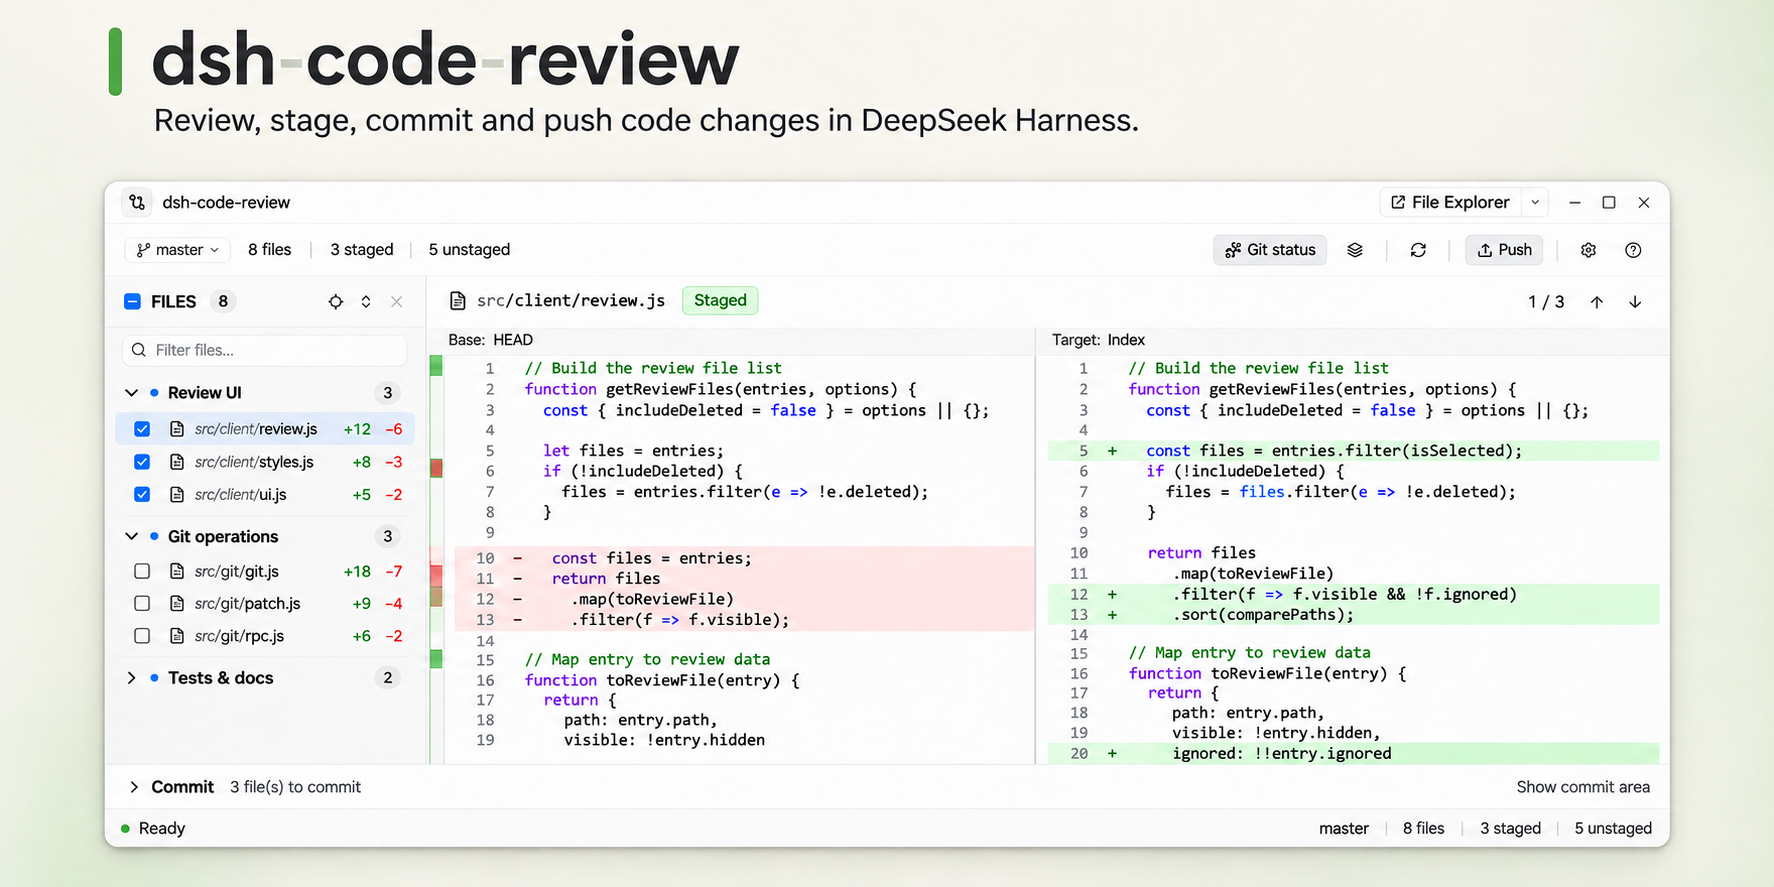
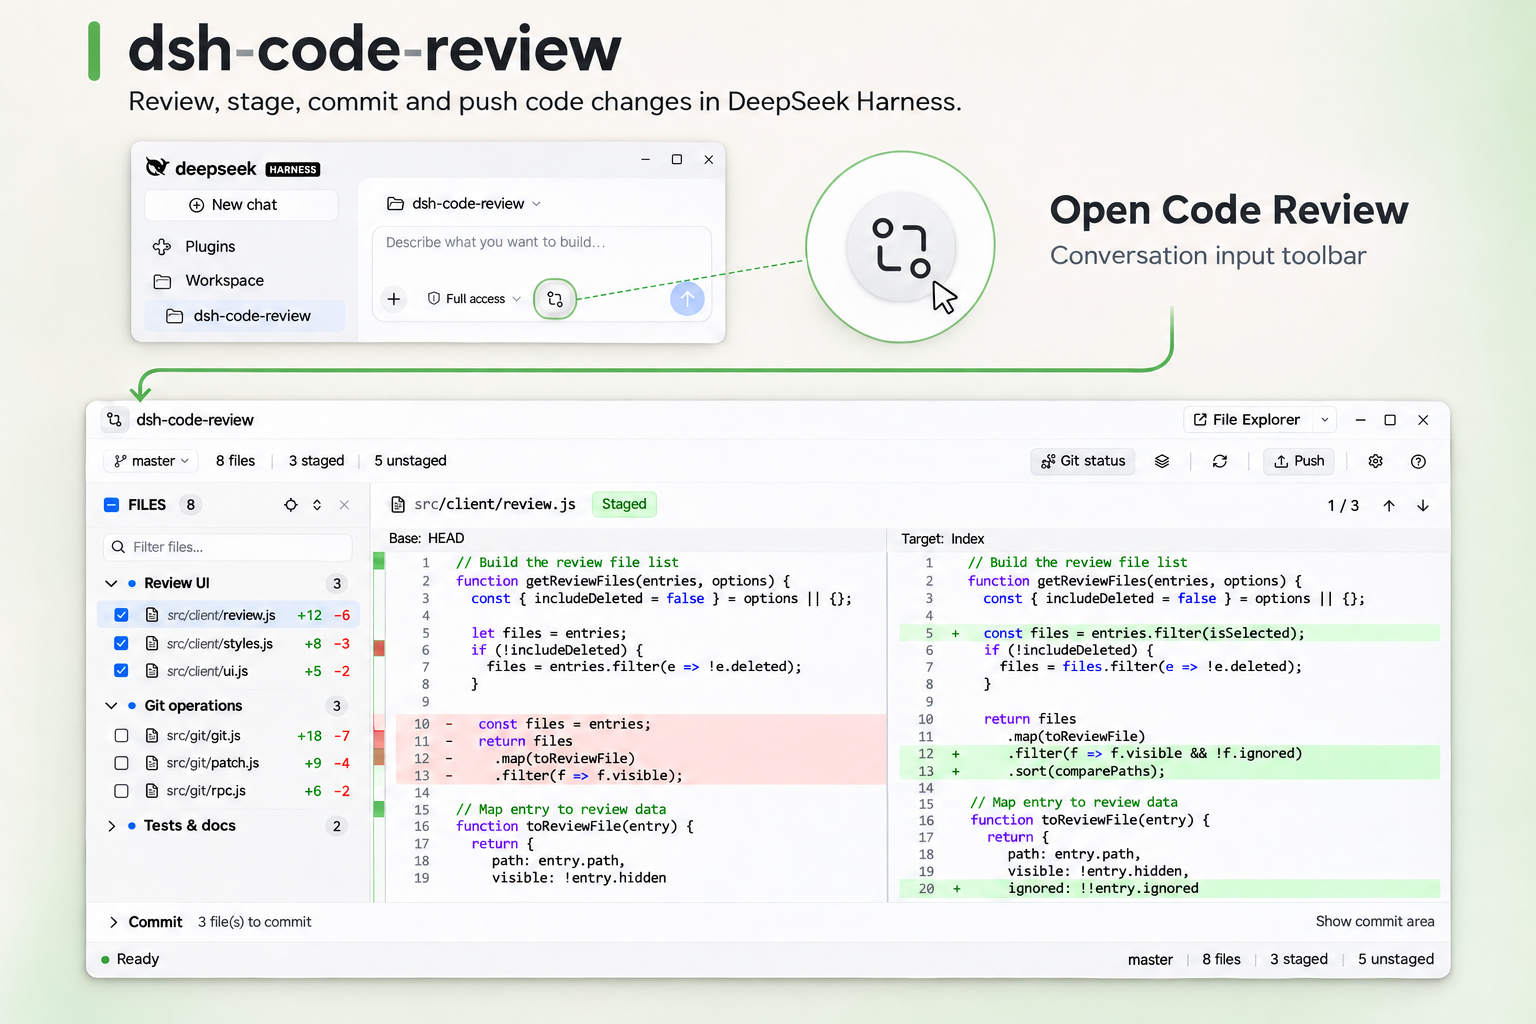
docs: refresh README covers and installation guide
- README/README.en: make the DSH Desktop Plugins page the primary install path
  (Add plugin, Install, Enable now) for the published npm package, keeping
  clone-the-repo or Release source archive plus a local directory path as the
  fallback; upgrades stay uninstall-then-install.
- README/README.en: new cover illustrations that point at the Code Review entry
  in the conversation input toolbar; update the matching feature bullet and
  usage step, and add multiple-workspaces-and-minimizing sections covering
  independent per-workspace windows, minimize-to-title-strip and restore, and
  the per-page window lifetime.
- docs/development: describe the cover as a composed illustration and how to
  keep it in sync with the real ReviewButton icon.
- assets: replace cover.zh.png and cover.en.png.
- CHANGELOG: record the installation, cover and multi-window README updates.

diff --git a/README.en.md b/README.en.md
@@ -18,7 +18,7 @@
 </p>
 
 <p align="center">
-  <img src="assets/cover.en.png" alt="dsh-code-review interface preview: review changes side by side, check files to stage, and commit inside the DSH Web UI" width="100%">
+  <img src="assets/cover.en.png" alt="dsh-code-review entry and interface illustration: open Code Review from the DSH conversation input toolbar to review changes side by side, stage files, and commit in a floating window" width="100%">
 </p>
 
 ## Features
@@ -26,26 +26,34 @@
 - **Side-by-side review**: inspect diffs, syntax highlighting and change statistics, with quick navigation between changes.
 - **Choose what to commit**: stage and unstage files or groups, with individual hunk operations and discard for unstaged changes.
 - **Commit and push**: write commit messages or let AI draft one, preview pushes and configure remotes.
-- **Flexible windows**: move, resize and review multiple sessions without blocking the conversation; supports DSH light/dark themes and Chinese/English.
+- **Flexible windows**: review multiple workspaces or sessions independently, with movable, resizable and minimizable windows that keep the conversation accessible; supports DSH light/dark themes and Chinese/English.
 - **Optional AI grouping**: organise changes by file role or feature logic for review and staging.
 
 ## Installation
 
-Requires the DSH Web UI, Git and Node.js ≥ 20.11 on the host machine. The plugin has been tested with DSH 0.2.2-rc.1.
+The plugin is published on npm as [`@acanzaima/dsh-code-review`](https://www.npmjs.com/package/@acanzaima/dsh-code-review) and installs through the DSH Plugins page. It needs a working Git and Node.js ≥ 20.11 (DSH Desktop bundles a suitable runtime); tested with DSH 0.2.2-rc.1.
 
-To try the development version:
+### Install through DSH Desktop (recommended)
 
-1. On this repository's page, click **Code → Download ZIP** and extract the archive.
-2. In DSH's plugin manager, use the extracted project directory as the installation target (the folder containing `package.json`).
-3. Refresh the DSH page after installation. An “Open Code Review” button will appear in the conversation input toolbar.
+1. Open DSH Desktop and choose **Plugins** in the sidebar.
+2. Click **Add plugin**, enter `@acanzaima/dsh-code-review` as the package name and click **Install**.
+3. Click **Enable now** when the installation finishes; if you closed the dialog, switch the plugin on under **Installed plugins** instead.
+4. Go back to the conversation: the “Open Code Review” button appears in the input toolbar. If it does not, restart DSH once.
 
-You can also install it from npm: use `@acanzaima/dsh-code-review` as the installation target in DSH's plugin manager (released versions start at 0.2.0).
+### Install from source
 
-The source includes the client files, so no dependency installation or build is needed. To upgrade, remove the old version, install the new one and refresh the page; restart DSH if the update has not taken effect. Disable or uninstall the plugin through the plugin manager.
+For following the latest changes or debugging. The source already ships the built client file, so there is nothing to install or build.
+
+- Clone the repository: `git clone https://github.com/acanzaima/dsh-code-review.git`.
+- Or download **Source code (zip)** for the wanted version from the [Releases page](https://github.com/acanzaima/dsh-code-review/releases) and extract it.
+
+Then click **Add plugin** on the Plugins page, enter the absolute path of the cloned or extracted directory (the one containing `package.json`), click **Install**, and enable it as described above.
+
+Upgrades, disabling and uninstalling also happen on the Plugins page; to upgrade, uninstall the old version first and then install the new one.
 
 ## Usage
 
-1. In a DSH conversation for your Git project, click “Open Code Review”.
+1. In a DSH conversation for your Git project, click the Code Review icon in the toolbar below the input field (tooltip: “Open Code Review”; see the cover above for its location).
 2. Select a file on the left to inspect its diff. Search for files or jump between changes.
 3. Check a file or group to stage it. Uncheck it to unstage while keeping the file contents. The select-all checkbox applies to the current filter results.
 4. Expand the commit area at the bottom, write a message and commit. Click “Push” when you want to sync with the remote. The sparkles icon to the left of the commit button **drafts a commit message from the staged changes**; the draft lands in the editable message field — review or edit it, then commit.
@@ -53,6 +61,13 @@ The source includes the client files, so no dependency installation or build is 
 Right-click a file or a change block in the diff to stage, unstage or discard it. **Discard removes unstaged changes, requires confirmation and cannot be undone.**
 
 Press `?` inside the window for keyboard shortcuts. `Esc` closes menus and dialogs; use the title-bar close button to close the review window.
+
+### Multiple workspaces and minimizing
+
+- **Independent reviews**: open Code Review from different workspaces or sessions to keep several review windows open at once. Each window stays with the repository it opened for, with its own file selection and diff view. Switching workspaces or sessions leaves existing windows open and keeps their repositories unchanged.
+- **Minimize and restore**: click “Minimize” in the title bar to collapse a window to a title strip showing its repository name, keeping several projects accessible while you continue chatting. Click the upward arrow on the right of the strip to restore the window.
+
+Each window has its own review UI state; plugin settings and the Git state of the same repository remain shared. Windows exist only on the current page: refreshing DSH closes all review windows.
 
 ## AI features
 

diff --git a/README.md b/README.md
@@ -18,7 +18,7 @@
 </p>
 
 <p align="center">
-  <img src="assets/cover.zh.png" alt="dsh-code-review 界面预览：在 DSH 中并排审阅改动、勾选暂存并提交" width="100%">
+  <img src="assets/cover.zh.png" alt="dsh-code-review 入口与界面示意：从 DSH 对话输入框工具行打开 Code Review，在浮动窗口中并排审阅改动、勾选暂存并提交" width="100%">
 </p>
 
 ## 功能
@@ -26,26 +26,34 @@
 - **并排审阅**：查看文件差异、语法高亮和增删统计，快速跳转变更位置。
 - **选择提交内容**：按文件或分组暂存、取消暂存，也支持单个变更块操作与未暂存改动的还原。
 - **提交与推送**：填写或让 AI 草拟提交信息，预览并推送到远程仓库，也可配置远程地址。
-- **灵活的窗口**：支持拖动、缩放和多个会话同时审阅，不阻塞对话；适配 DSH 浅色 / 深色主题，提供中英双语。
+- **灵活的窗口**：支持多工作区 / 多会话独立审阅，窗口可拖动、缩放和最小化，不阻塞对话；适配 DSH 浅色 / 深色主题，提供中英双语。
 - **可选 AI 归类**：按文件职能或功能逻辑组织改动，方便分组审阅与提交。
 
 ## 安装
 
-需要 DSH Web UI、本机可用的 Git 和 Node.js ≥ 20.11；本插件已在 DSH 0.2.2-rc.1 上验证。
+插件发布在 npm（[`@acanzaima/dsh-code-review`](https://www.npmjs.com/package/@acanzaima/dsh-code-review)），在 DSH 的「插件」页中安装。运行需要本机可用的 Git 和 Node.js ≥ 20.11（DSH 桌面端已内置满足要求的运行时）；已在 DSH 0.2.2-rc.1 上验证。
 
-开发版可通过下载源码体验：
+### 通过 DSH 桌面端安装（推荐）
 
-1. 在本仓库页面点击 **Code → Download ZIP**，下载并解压。
-2. 在 DSH 插件管理器中，将解压后的项目目录作为安装目标（包含 `package.json` 的那一层）。
-3. 安装完成后刷新 DSH 页面，即可在对话输入框工具行看到「打开 Code Review」。
+1. 打开 DSH 桌面端，在侧栏选择**插件**。
+2. 点击**添加插件**，在「包名或地址」中填入 `@acanzaima/dsh-code-review`，点击**安装**。
+3. 安装完成后点击**立即启用**；如果当时关掉了对话框，也可以在**已安装插件**中打开该插件的开关。
+4. 回到对话，输入框工具行出现「打开 Code Review」即安装成功。若没有出现，重启一次 DSH。
 
-也可以直接从 npm 安装：在 DSH 插件管理器中以 `@acanzaima/dsh-code-review` 为安装目标（发布版本 0.2.0 起）。
+### 从源码安装
 
-源码已包含客户端文件，无需安装依赖或自行构建。升级时先移除旧版，再安装新版并刷新页面；若未生效，重启 DSH。停用与卸载也在插件管理器中完成。
+适合跟进最新改动或排查问题。源码已包含构建好的客户端文件，不需要安装依赖，也不需要自行构建。
+
+- 克隆仓库：`git clone https://github.com/acanzaima/dsh-code-review.git`。
+- 从 [Releases 页面](https://github.com/acanzaima/dsh-code-review/releases) 下载对应版本的 **Source code (zip)** 并解压。
+
+然后在插件页点击**添加插件**，填入克隆目录或解压目录的完整绝对路径（包含 `package.json` 的那一层），点击**安装**，再按上面的步骤启用。
+
+升级、停用与卸载都在插件页完成；升级时先卸载旧版，再安装新版。
 
 ## 使用
 
-1. 在 Git 项目对应的 DSH 对话中，点击「打开 Code Review」。
+1. 在 Git 项目对应的 DSH 对话中，点击输入框下方工具行里的 Code Review 图标（悬停提示「打开 Code Review」，位置见上方封面）。
 2. 选择左侧文件查看差异，可搜索文件或跳转到上一处 / 下一处变更。
 3. 勾选文件或分组，将改动加入暂存区；取消勾选会移出暂存区，保留文件内容。列表顶部的全选只作用于当前筛选结果。
 4. 展开底部提交区，填写提交信息并提交；需要同步到远程时，再点击「推送」。提交按钮左侧的 sparkles 图标可按已暂存改动**用 AI 草拟提交信息**，草稿会写进输入框，确认或修改后照常提交。
@@ -53,6 +61,13 @@
 右键文件或 diff 中的变更块，可执行暂存、取消暂存或还原。**还原会丢弃未暂存的改动，执行前需要确认，且无法撤销。**
 
 窗口内按 `?` 查看快捷键。`Esc` 关闭菜单或对话框，审阅窗口通过标题栏的关闭按钮关闭。
+
+### 多工作区与最小化
+
+- **独立审阅**：在不同工作区或会话中分别打开 Code Review，可同时保留多个审阅窗口。每个窗口始终对应打开时的仓库，文件选择与差异查看互不影响；切换工作区或会话不会关闭已有窗口，也不会把它切换到另一个仓库。
+- **收起与恢复**：点击标题栏的「最小化」，窗口收起为一条带仓库名的标题条，方便同时保留多个项目并继续对话。点击标题条右侧的向上箭头即可恢复原窗口。
+
+各窗口的审阅界面状态独立；插件设置及同一仓库的 Git 状态仍共享。窗口只保留在当前页面中，刷新 DSH 页面会关闭所有审阅窗口。
 
 ## AI 能力
 

diff --git a/docs/development.md b/docs/development.md
@@ -181,6 +181,8 @@ npm run release -- --dry-run
 
 README / README.en 顶部的简介图位于仓库根目录 `assets/`（`cover.zh.png` / `cover.en.png`），与 `docs/` 分开：`docs/` 只放维护者 / 集成者文档，README 素材放 `assets/`；两者都不随包发布。npm 页面渲染 README 时不会解析相对图片路径，这些图片在 npm 页面上不可见；需要显示时应改用绝对 URL。
 
+封面是导览合成示意图：上方用简化的 DSH 输入框交代入口位置，局部放大 Code Review 按钮，再用箭头指向下方的主审阅窗口。它不是逐像素的真实截图；更新时应核对 `src/client/components.js` 中 `ReviewButton` / `ICON_PARTS.review` 的实际按钮与图标，并同步中英文版本。
+
 ### 11.1 由 tag 触发的自动发布（GitHub Actions + Trusted Publishing）
 
 `.github/workflows/publish.yml` 在推送 `v*` tag 时自动发布，本地 `git push origin v0.2.1` 与 GitHub 页面创建 tag（Tags → New tag，或用 Release 页面新建同名 tag）都会产生 tag push 事件，触发同一个 workflow。发布通过 npm Trusted Publishing（OIDC）完成：workflow 申请 GitHub OIDC token，npm 校验「仓库 + workflow 文件名 + environment」后签发短期发布凭据，因此仓库里不需要 `NPM_TOKEN` 等长期 token（2027-01 起 bypass-2FA token 也不能再直接发布）。流程：

diff --git a/CHANGELOG.md b/CHANGELOG.md
@@ -3,6 +3,14 @@
 本项目的所有重要变更都记录在此文件。格式基于 [Keep a Changelog](https://keepachangelog.com/zh-CN/1.1.0/)，
 版本号遵循[语义化版本](https://semver.org/lang/zh-CN/)。
 
+## [Unreleased]
+
+### Changed
+
+- 中英文 README 补充多工作区 / 多会话独立审阅、最小化为仓库标题条与恢复操作，并说明切换工作区时窗口保留、共享状态范围及刷新页面后的行为。
+- 中英文 README 封面增加 DSH 输入框入口示意、图标局部放大与指向审阅窗口的箭头；使用说明同步标明入口所在的工具行。
+- README 的安装说明改为以 DSH 桌面端插件页安装 npm 包（`@acanzaima/dsh-code-review`）为首选方式，克隆源码或从 GitHub Release 下载源码包作为备选；中英文 README 同步更新。升级统一为先卸载旧版再安装新版。
+
 ## [0.2.1] - 2026-11-09
 
 ### Changed
